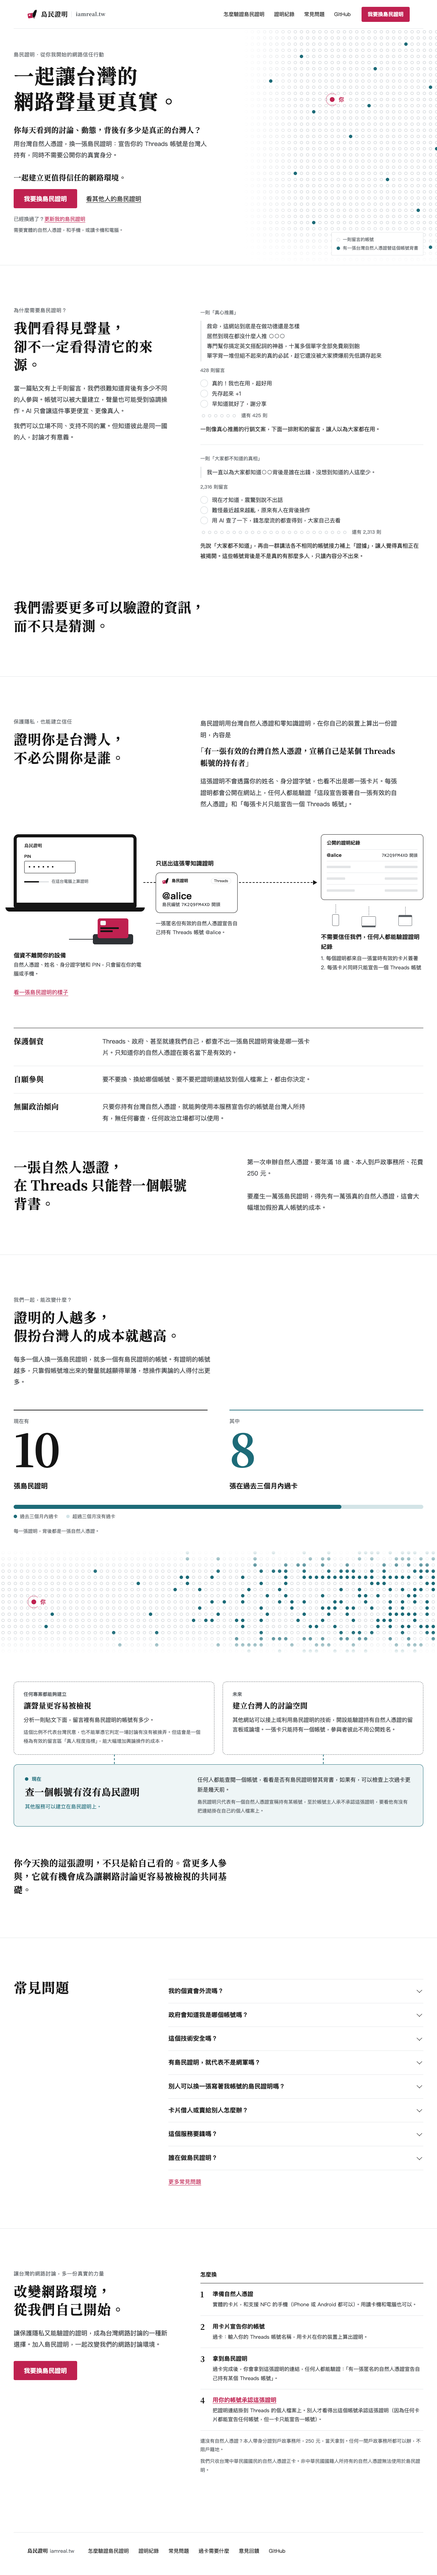
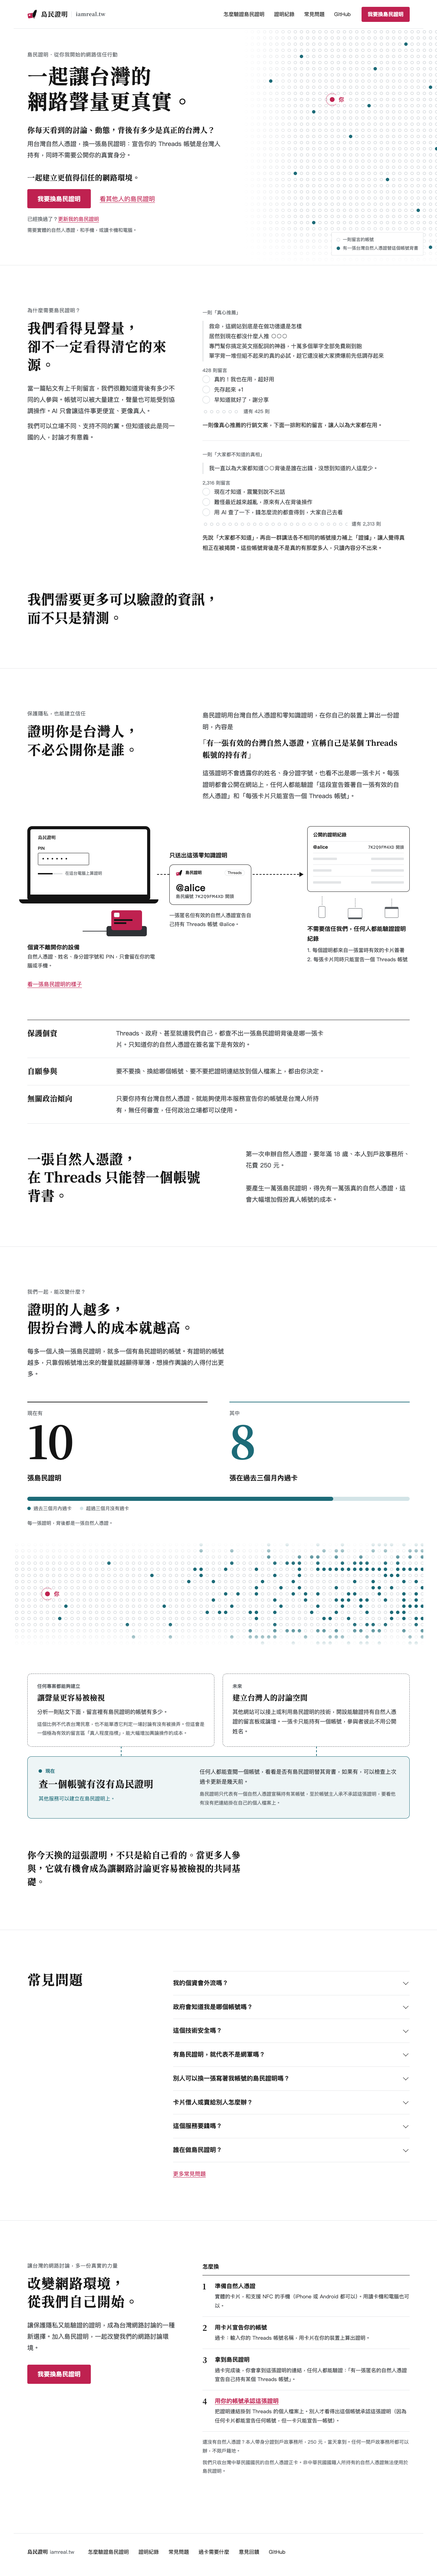
審查的修正：首頁的內容和導覽列、頁尾對齊同一條邊；記號從 layout.ts 匯出，不再複製一份；內文的連結照 DESIGN.md 用覆盆子紅（#284）

diff --git a/worker/src/pages/home.ts b/worker/src/pages/home.ts
@@ -9,8 +9,8 @@
 // is placed by a number (a dot, the ratio bar) is SVG, placed by its
 // attributes; the style sheet gives it its colours.
 import { type Question, question } from "./faq.ts";
-import { Html, html, thousands } from "./html.ts";
-import { type Document, NEEDS } from "./layout.ts";
+import { type Html, html, thousands } from "./html.ts";
+import { type Document, LOGO, NEEDS } from "./layout.ts";
 
 /** The home page's two numbers (home.md, 一起能改變什麼). */
 export interface HomeNumbers {
@@ -93,11 +93,6 @@ function recentShare({ declared, recent }: HomeNumbers): string {
   return declared === 0 ? "0" : String(Math.round((recent / declared) * 1000) / 10);
 }
 
-/** The mark (layout.ts draws the same), small, on the proof card of the figure. */
-const MARK = new Html(
-  '<svg class="logo" viewBox="0 0 64 64" aria-hidden="true" focusable="false"><g class="logo-card"><g transform="rotate(-9 27 39)"><rect x="3" y="24" width="46" height="30" rx="5.5" class="logo-card-body"></rect><rect x="9.5" y="31" width="10" height="8" rx="2" class="logo-chip"></rect></g></g><g class="logo-island"><path d="M14.84 45.97 L13.85 48.00 L13.07 50.14 L12.75 52.17 L12.77 54.25 L12.55 56.14 L12.16 58.00 L10.62 57.46 L9.79 56.13 L9.59 53.94 L8.48 51.29 L8.06 50.54 L6.45 49.06 L4.99 48.32 L3.86 47.23 L4.01 47.32 L3.18 45.85 L2.54 44.28 L1.23 39.83 L0.78 38.76 L0.17 37.78 L0.00 36.81 L0.21 35.73 L0.77 34.12 L1.12 32.49 L0.84 30.29 L0.95 28.10 L1.37 27.13 L8.83 13.81 L10.85 10.98 L12.10 9.59 L13.14 8.02 L14.13 6.04 L15.34 4.22 L16.21 3.67 L20.49 2.04 L21.82 0.48 L22.89 0.00 L24.10 0.03 L24.89 0.77 L25.58 1.65 L26.31 2.12 L28.21 2.98 L29.04 3.81 L29.42 5.25 L28.26 6.60 L27.69 7.83 L27.58 9.18 L27.79 11.01 L27.82 12.85 L26.37 17.16 L24.83 19.84 L24.41 21.18 L23.94 24.50 L23.03 27.84 L22.26 32.06 L20.99 36.41 L20.28 38.23 L19.38 39.98 L17.25 43.27 Z" transform="translate(31.5 3) scale(0.97)" class="logo-island-body" stroke-width="2.6" stroke-linejoin="round" paint-order="stroke"></path></g></svg>',
-);
-
 export function homePage(numbers: HomeNumbers): Document {
   const content = html`<section class="hero">
 <div class="in">
@@ -109,7 +104,7 @@ export function homePage(numbers: HomeNumbers): Document {
 <p>用台灣自然人憑證，換一張島民證明：宣告你的 Threads 帳號是台灣人持有，同時不需要公開你的真實身分。</p>
 </div>
 <p class="stress rally">一起建立更值得信任的網路環境。</p>
-<p class="actions"><a class="button big" href="/proof">我要換島民證明</a> <a class="quiet" href="/proof-log">看其他人的島民證明</a></p>
+<p class="actions"><a class="button big" href="/proof">我要換島民證明</a> <a href="/proof-log">看其他人的島民證明</a></p>
 <p class="again">已經換過了？<a href="/proof">更新我的島民證明</a></p>
 <p class="small needs">${NEEDS}</p>
 </div>
@@ -192,7 +187,7 @@ ${youDot(HERO_YOU, true)}
 </div>
 <div class="sent">
 <p class="label">只送出這張零知識證明</p>
-<div class="proof-card" aria-hidden="true"><p class="card-top">${MARK}<span>島民證明</span>　<span class="platform">Threads</span></p><p class="account">@alice</p><p class="short-id">島民編號 <span class="id">7K2Q9FM4XD</span> 開頭</p></div>
+<div class="proof-card" aria-hidden="true"><p class="card-top">${LOGO}<span>島民證明</span>　<span class="platform">Threads</span></p><p class="account">@alice</p><p class="short-id">島民編號 <span class="id">7K2Q9FM4XD</span> 開頭</p></div>
 <p class="caption">一張匿名但有效的自然人憑證宣告自己持有 Threads 帳號 @alice。</p>
 </div>
 <div class="public">

diff --git a/worker/site/pages.css b/worker/site/pages.css
@@ -749,20 +749,20 @@ section.verify {
 
 /* The home page (home.md; design/DESIGN.md; design/screens/home-desktop.png, home-phone.png) ---------- */
 
-/* As wide as the site: each section runs edge to edge, its content within the navigation bar's edges. */
+/* As wide as the site: each section runs edge to edge, its content within the navigation bar's edges (.top .bar). */
 body.home main {
   max-width: none;
   padding: 0;
 }
 
 body.home .in {
-  max-width: calc(var(--max-width) + 2 * var(--gutter));
+  max-width: var(--max-width);
   margin: 0 auto;
   padding: 0 var(--gutter);
 }
 
 body.home main > section {
-  padding: var(--section) 0;
+  padding: var(--section) var(--gutter);
 }
 
 body.home main > section + section {
@@ -933,7 +933,8 @@ body.home .hero-field .pulse {
 /* 第一屏 */
 body.home .hero {
   position: relative;
-  padding: 64px 0 88px;
+  padding-top: 64px;
+  padding-bottom: 88px;
 }
 
 body.home .hero .copy {
@@ -957,10 +958,6 @@ body.home .hero .rally {
 body.home .hero .actions {
   gap: 12px 26px;
   margin: 16px 0 0;
-}
-
-body.home .quiet {
-  color: var(--ink);
 }
 
 body.home .again {
@@ -1865,11 +1862,11 @@ body.home .after {
 /* The home page on a phone (design/DESIGN.md, 版面): one column; the first screen's dots under the headline. */
 @media (width < 760px) {
   body.home .in {
-    padding: 0 var(--gutter-phone);
+    padding: 0;
   }
 
   body.home main > section {
-    padding: var(--section-phone) 0;
+    padding: var(--section-phone) var(--gutter-phone);
   }
 
   body.home .headline {
@@ -1901,7 +1898,8 @@ body.home .after {
   }
 
   body.home .hero {
-    padding: 20px 0 48px;
+    padding-top: 20px;
+    padding-bottom: 48px;
   }
 
   body.home .hero .in {

diff --git a/worker/src/pages/layout.ts b/worker/src/pages/layout.ts
@@ -42,8 +42,8 @@ export interface Document {
   readonly content: Html;
 }
 
-/** The mark, as web/src/ui/logo.ts draws it; its colours are classes of the style sheet. */
-const LOGO = new Html(
+/** The mark, as web/src/ui/logo.ts draws it; its colours are classes of the style sheet. The home page draws it on the proof card of a figure too. */
+export const LOGO = new Html(
   '<svg class="logo" viewBox="0 0 64 64" aria-hidden="true" focusable="false"><g class="logo-card"><g transform="rotate(-9 27 39)"><rect x="3" y="24" width="46" height="30" rx="5.5" class="logo-card-body"></rect><rect x="9.5" y="31" width="10" height="8" rx="2" class="logo-chip"></rect></g></g><g class="logo-island"><path d="M14.84 45.97 L13.85 48.00 L13.07 50.14 L12.75 52.17 L12.77 54.25 L12.55 56.14 L12.16 58.00 L10.62 57.46 L9.79 56.13 L9.59 53.94 L8.48 51.29 L8.06 50.54 L6.45 49.06 L4.99 48.32 L3.86 47.23 L4.01 47.32 L3.18 45.85 L2.54 44.28 L1.23 39.83 L0.78 38.76 L0.17 37.78 L0.00 36.81 L0.21 35.73 L0.77 34.12 L1.12 32.49 L0.84 30.29 L0.95 28.10 L1.37 27.13 L8.83 13.81 L10.85 10.98 L12.10 9.59 L13.14 8.02 L14.13 6.04 L15.34 4.22 L16.21 3.67 L20.49 2.04 L21.82 0.48 L22.89 0.00 L24.10 0.03 L24.89 0.77 L25.58 1.65 L26.31 2.12 L28.21 2.98 L29.04 3.81 L29.42 5.25 L28.26 6.60 L27.69 7.83 L27.58 9.18 L27.79 11.01 L27.82 12.85 L26.37 17.16 L24.83 19.84 L24.41 21.18 L23.94 24.50 L23.03 27.84 L22.26 32.06 L20.99 36.41 L20.28 38.23 L19.38 39.98 L17.25 43.27 Z" transform="translate(31.5 3) scale(0.97)" class="logo-island-body" stroke-width="2.6" stroke-linejoin="round" paint-order="stroke"></path></g></svg>',
 );
 

diff --git a/worker/test/style-sheet.test.ts b/worker/test/style-sheet.test.ts
@@ -45,7 +45,7 @@ test("every colour is a token: no colour is written outside :root", () => {
   assert.deepEqual([...outside.matchAll(/#[0-9a-fA-F]{3,8}\b|\b(rgba?|hsla?|hwb|lab|lch|oklab|oklch|color)\(|\b(white|black|red|green|blue|teal)\b(?![-\w])/g)].map((m) => m[0]), []);
 });
 
-/** The media queries of the sheet but the one for reduced motion (the test below). */
+/** The one media query that is not about the width: reduced motion (the next test but one). */
 const REDUCED_MOTION = "(prefers-reduced-motion: reduce)";
 
 test("the narrow layout starts below --breakpoint", () => {

diff --git a/worker/scripts/site-files.ts b/worker/scripts/site-files.ts
@@ -64,7 +64,7 @@ export const SITE_FILES: readonly string[] = ["_headers", "_redirects", "copy.js
  * written here: a deploy uploads the style sheet that was reviewed. Change
  * it with the file (`shasum -a 256 site/pages.css`).
  */
[2 lines of base64/hex data omitted]
 
 /**
  * The SHA-256 of site/copy.js, the copy buttons' script, the other file of
